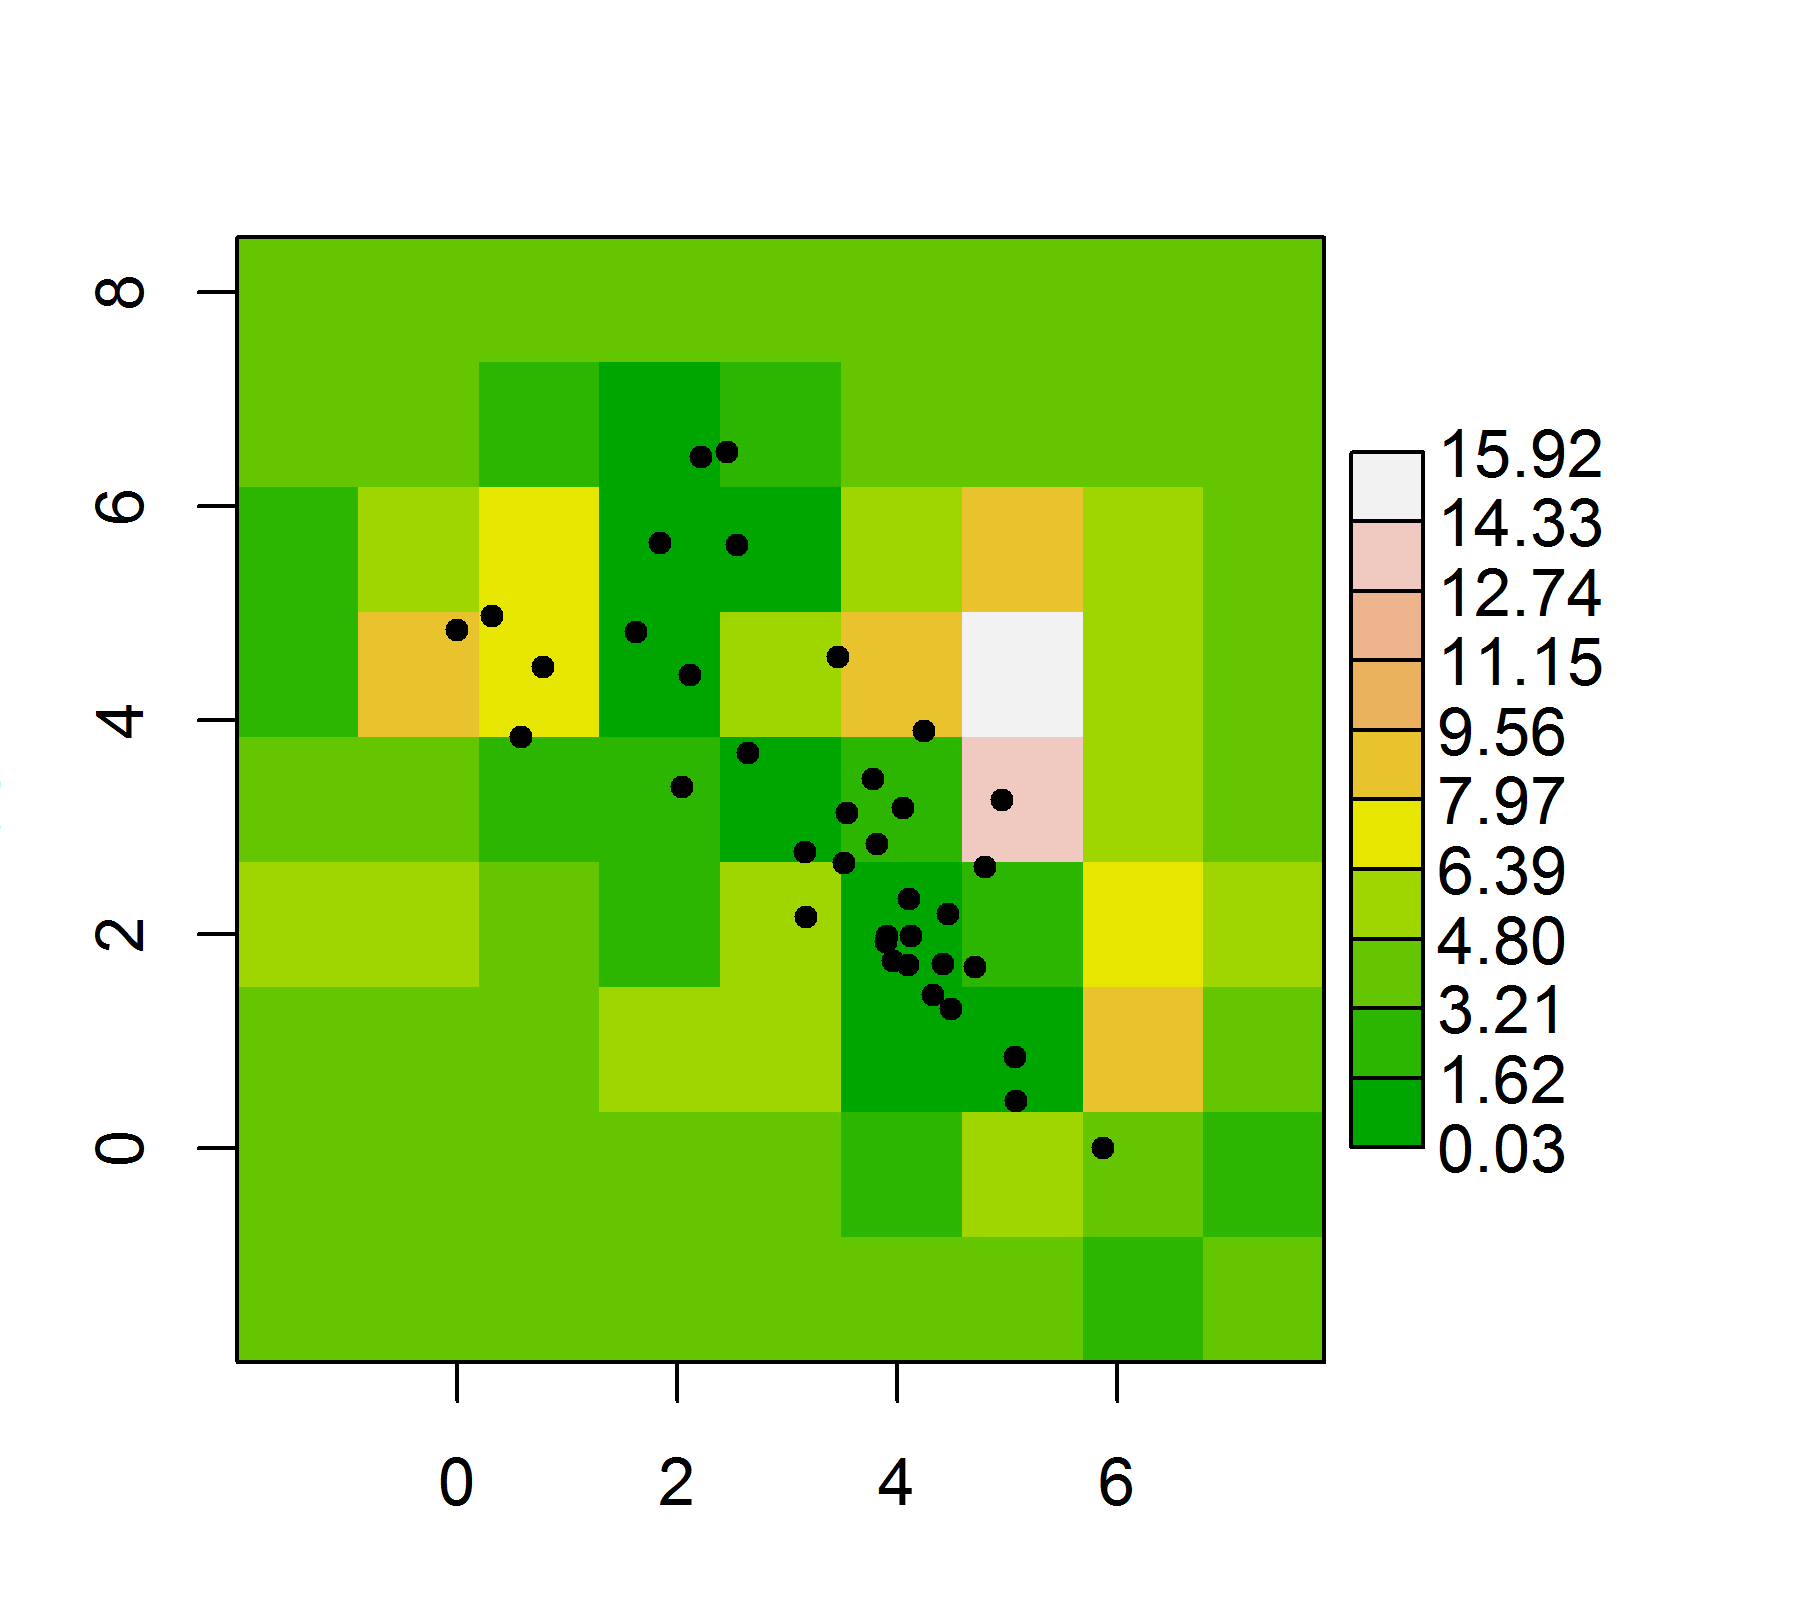
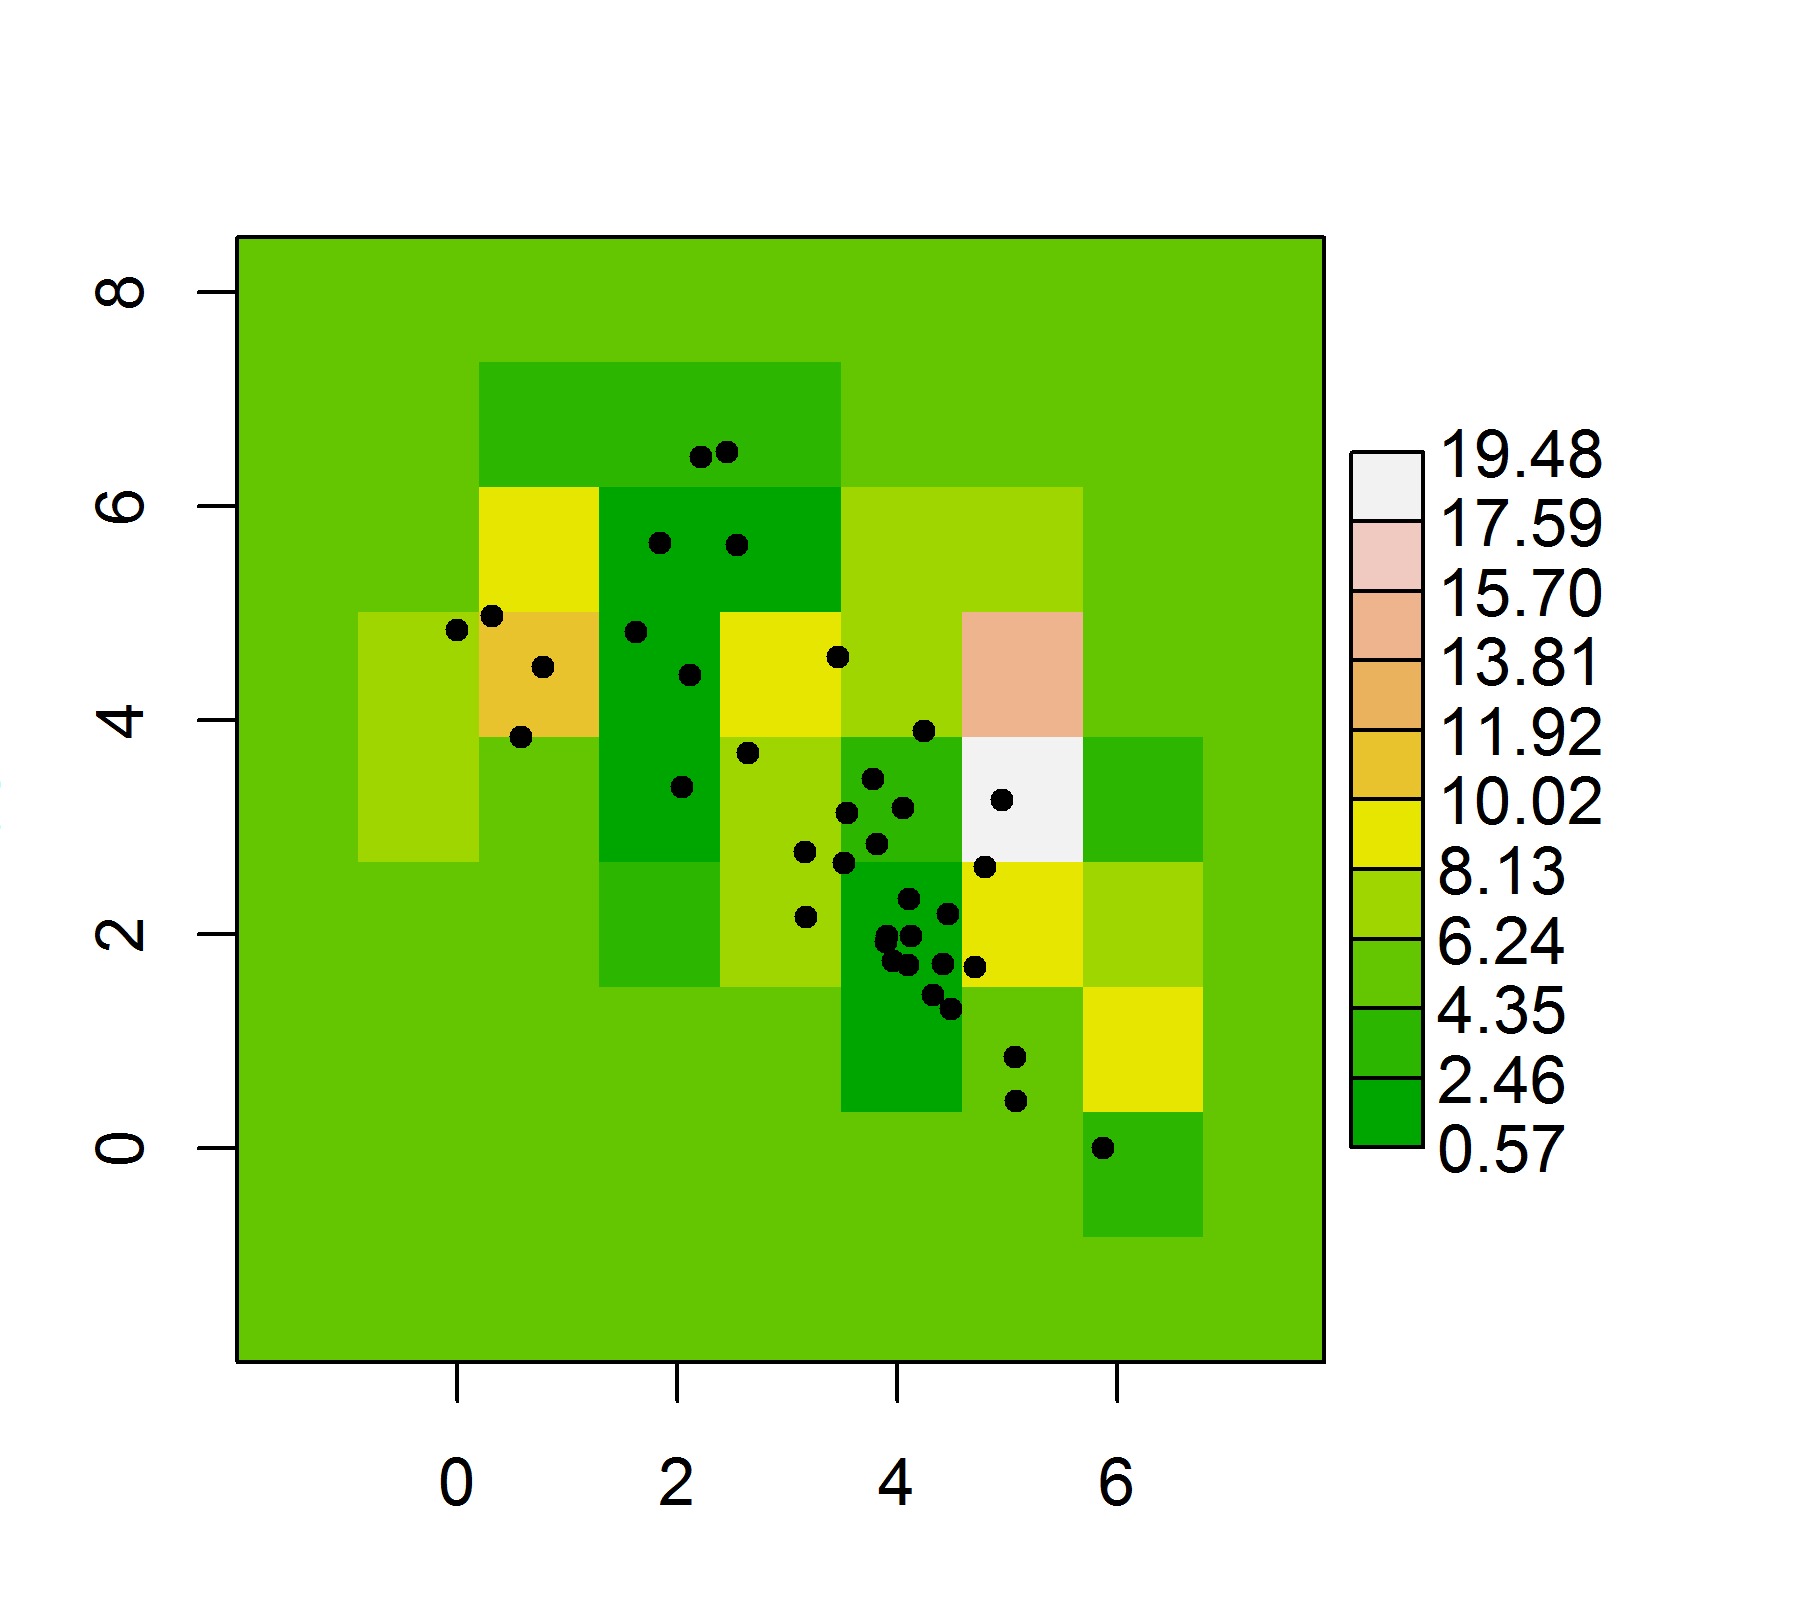
updated density figures

Changed region(s): [[0.1244, 0.2812, 0.7467, 0.875], [0.7778, 0.25, 0.9022, 0.75], [0.3111, 0.2188, 0.4044, 0.3125]]

diff --git a/Ch4/Chapter4.tex b/Ch4/Chapter4.tex
@@ -1395,13 +1395,14 @@ deviance 411.28 12.38 389.40 402.60 410.50 419.10 437.50 1.00 26000
 \end{verbatim}
 }
 
+
 We see that the estimated density is roughly consistent as we increase
-the state-space buffer from $20$ to $50$ $km$. We do note that the data
+the state-space buffer from $15$ to $50$ $km$. We do note that the data
 augmentation parameter $\psi$ (and, correspondingly, $N$) increase with
 the size of the state space in accordance with the deterministic
 relationship $N= D*A$. However, density is constant more or less as we
 increase the size of the state-space beyond a certain point.  For the
-10 $km$ state-space buffer, we see a noticeable effect on the posterior
+10 $km$ state-space buffer, we see a slight effect on the posterior
 distribution of $D$. This is not a bug but rather a feature. As we noted
 above, the state-space is part of the model.
 
@@ -1411,13 +1412,16 @@ radius of the species. For some models it is possible to convert the
 parameter $\theta$ directly into the home range radius (section
 XXX XYZ). For the half-normal model we interpret the half-normal scale
 parameter $\sigma$ which is related to $\theta$ by $\theta =
-1/(2\sigma^2)$ as the radius of a bivariate normal movement model.
+1/(2\sigma^2)$ as the radius of a bivariate normal movement model. 
+
 
 \subsection{Conclusion of Analysis}
 
-Our point estimate of wolverine density from this study of
-approximately $4.5$ individuals/1000 $km^2$ and a 95\% posterior
-interval is around $[2.7, 6.3]$. Density is estimated imprecisely
+Our point estimate of wolverine density from this study, using the
+posterior mean from the state-space based on the 20
+$km$ buffer, is 
+approximately $5.77$ individuals/1000 $km^2$ with  a 95\% posterior
+interval of $[3.86, 8.29]$. Density is estimated imprecisely
 which might not be surprising given the low sample size ($n=21$
 individuals!). This seems to be a basic feature of carnivore studies
 although it should not (in our view) preclude the study of their
